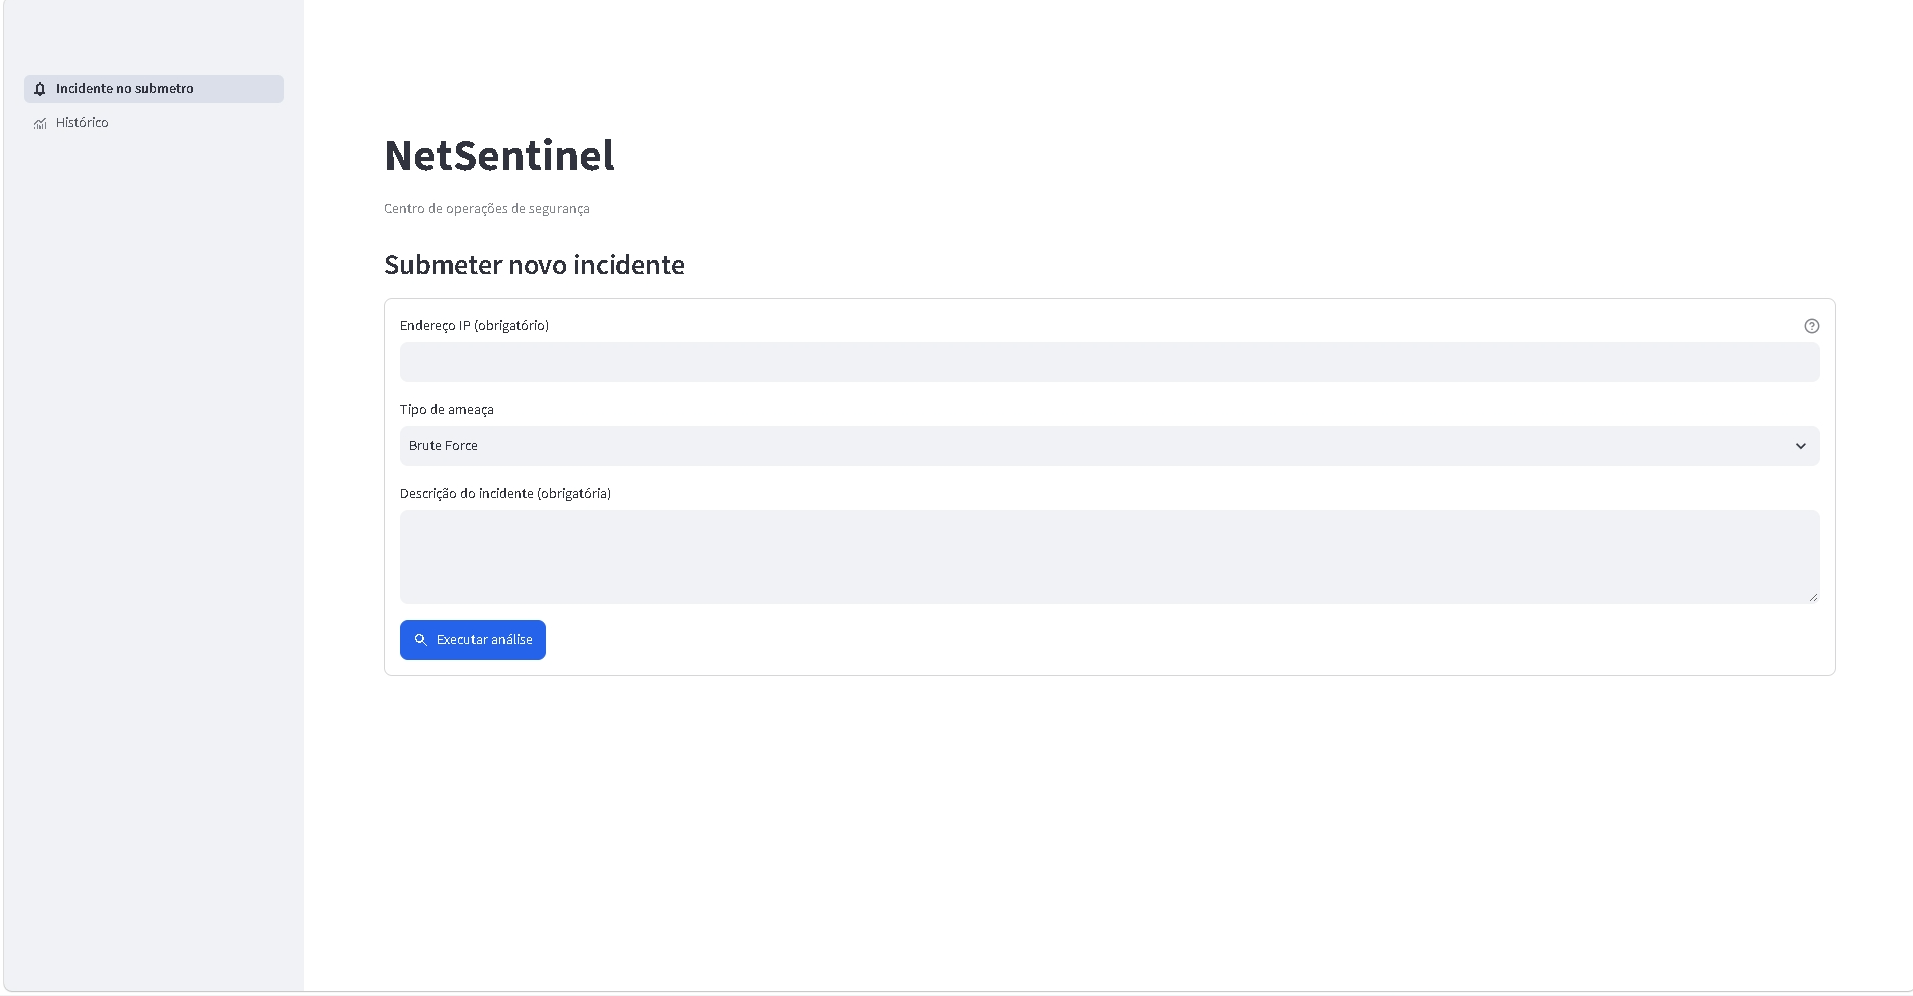
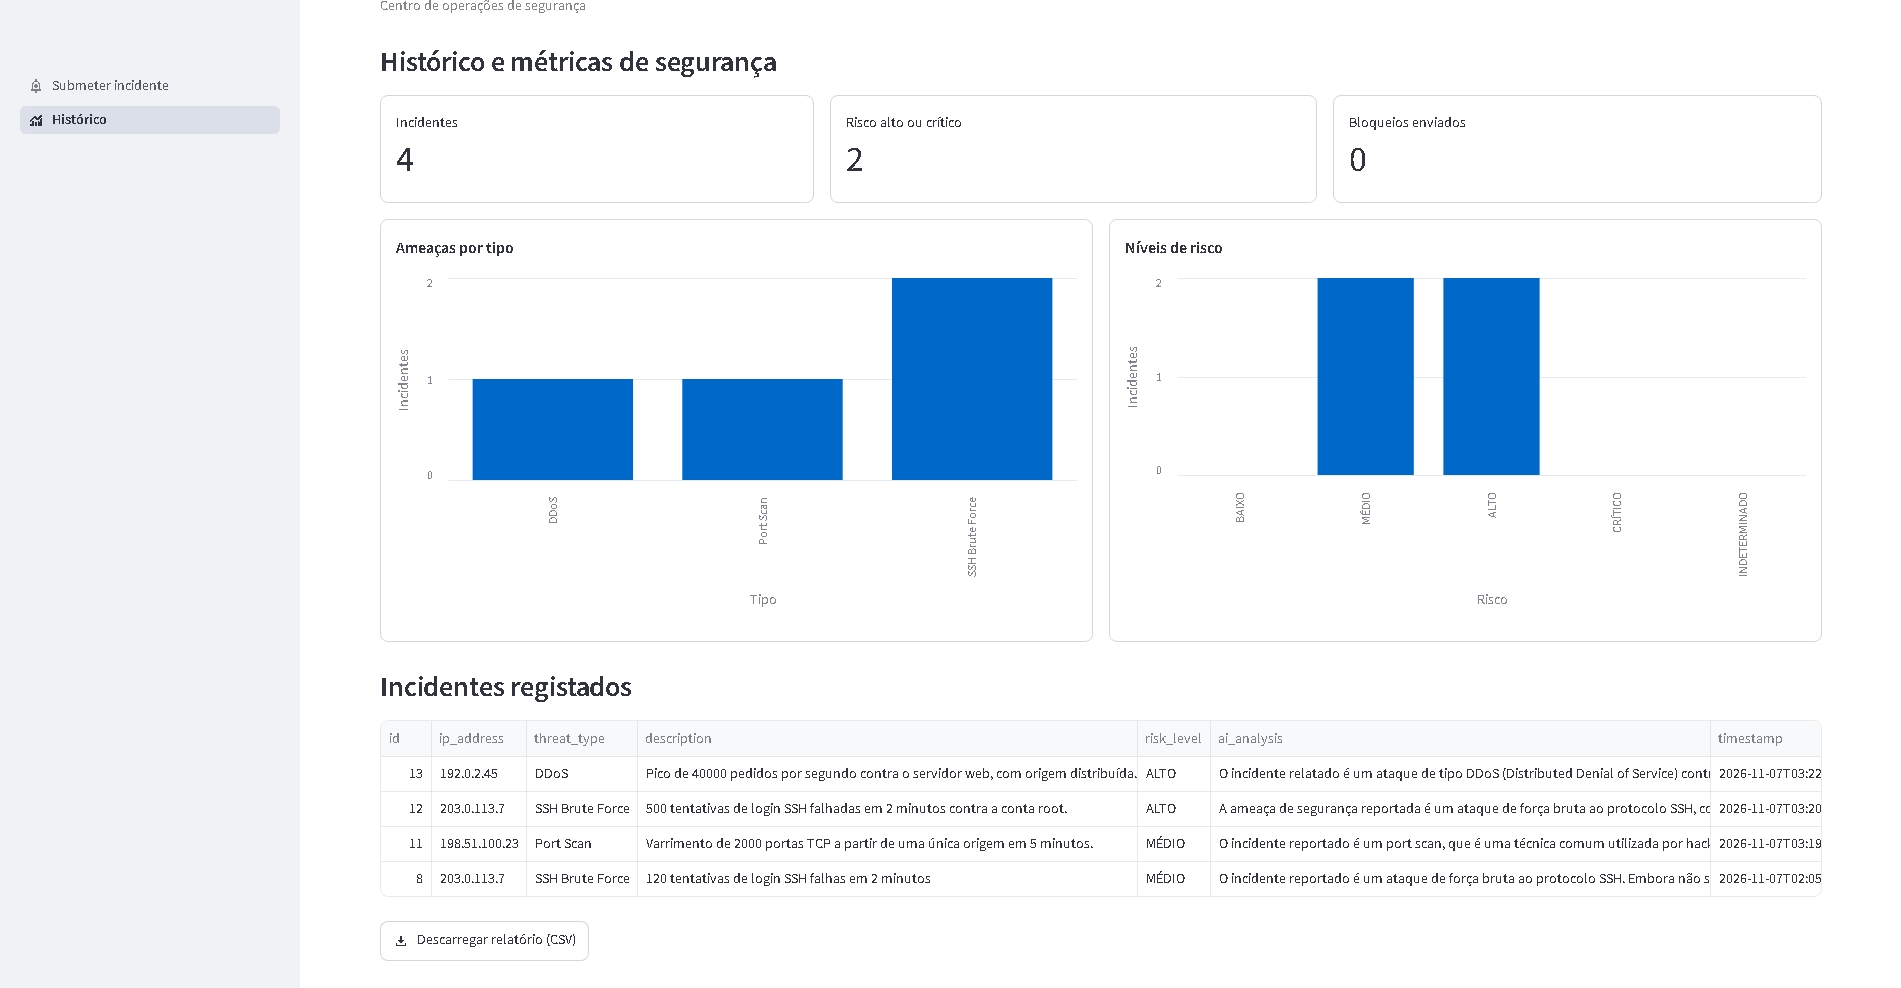
Atualiza as capturas do painel no README

diff --git a/README.md b/README.md
@@ -90,11 +90,11 @@ Os alertas são enviados em segundo plano, por isso uma falha no n8n, no Discord
 
 O painel tem duas páginas: uma para acompanhar os incidentes e outra para submeter novos. Os dados mostrados nas imagens são fictícios.
 
-![Histórico com métricas, gráficos e incidentes registados](docs/dashboard2.png)
+![Histórico com métricas, gráficos e incidentes registados](docs/dashboard1.png)
 
 *Histórico: métricas de segurança, gráficos por tipo e por nível de risco, e incidentes registados*
 
-![Formulário de submissão de um novo incidente](docs/dashboard1.png)
+![Formulário de submissão de um novo incidente](docs/dashboard2.png)
 
 *Submissão de um novo incidente para análise pela IA*
 
